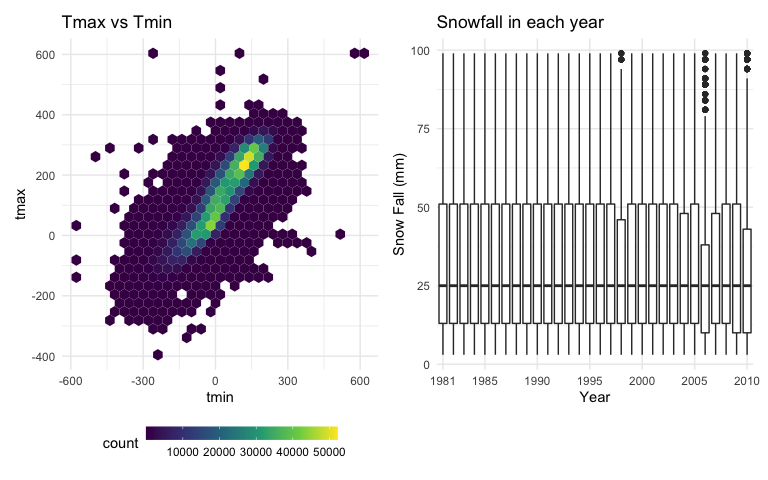
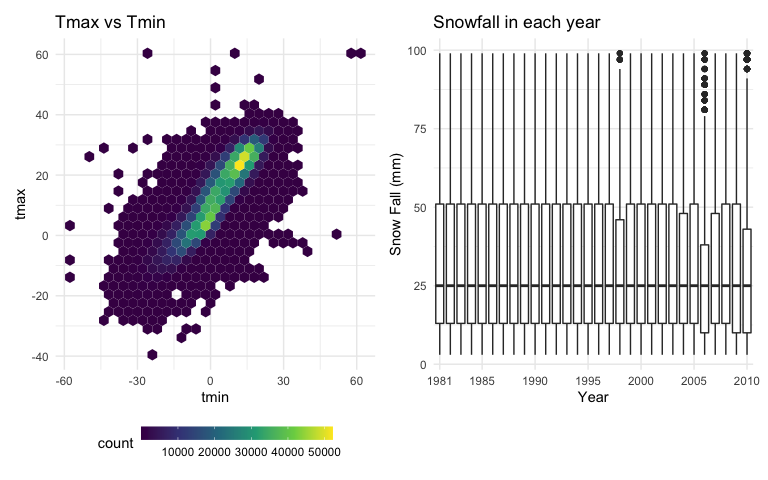
change reasonable unit

diff --git a/p8105_hw3_hs3393.md b/p8105_hw3_hs3393.md
@@ -276,7 +276,10 @@ than 25% data is NA, that’s a severe problem.
 ``` r
 datany <- ny_noaa %>% 
   separate(date, into = c("year", "month", "day"), sep = "-", remove = T) %>% 
-  mutate_at(c("tmax", "tmin"), as.numeric)
+  mutate_at(c("tmax", "tmin"), as.numeric) %>% 
+  mutate(tmax = tmax / 10,
+         tmin = tmin / 10,
+         prcp = prcp / 10)
 
 getmode <- function(v) {
    uniqv <- unique(v)
@@ -296,7 +299,7 @@ year, it will not snow (except winter),
 data1_7 <- datany %>% 
   filter(month == "01" | month == "07") %>% 
   group_by(id, year ,month) %>% 
-  summarize(ave_max = mean(tmax/10))
+  summarize(ave_max = mean(tmax))
 ```
 
     ## `summarise()` has grouped output by 'id', 'year'. You can override using the
